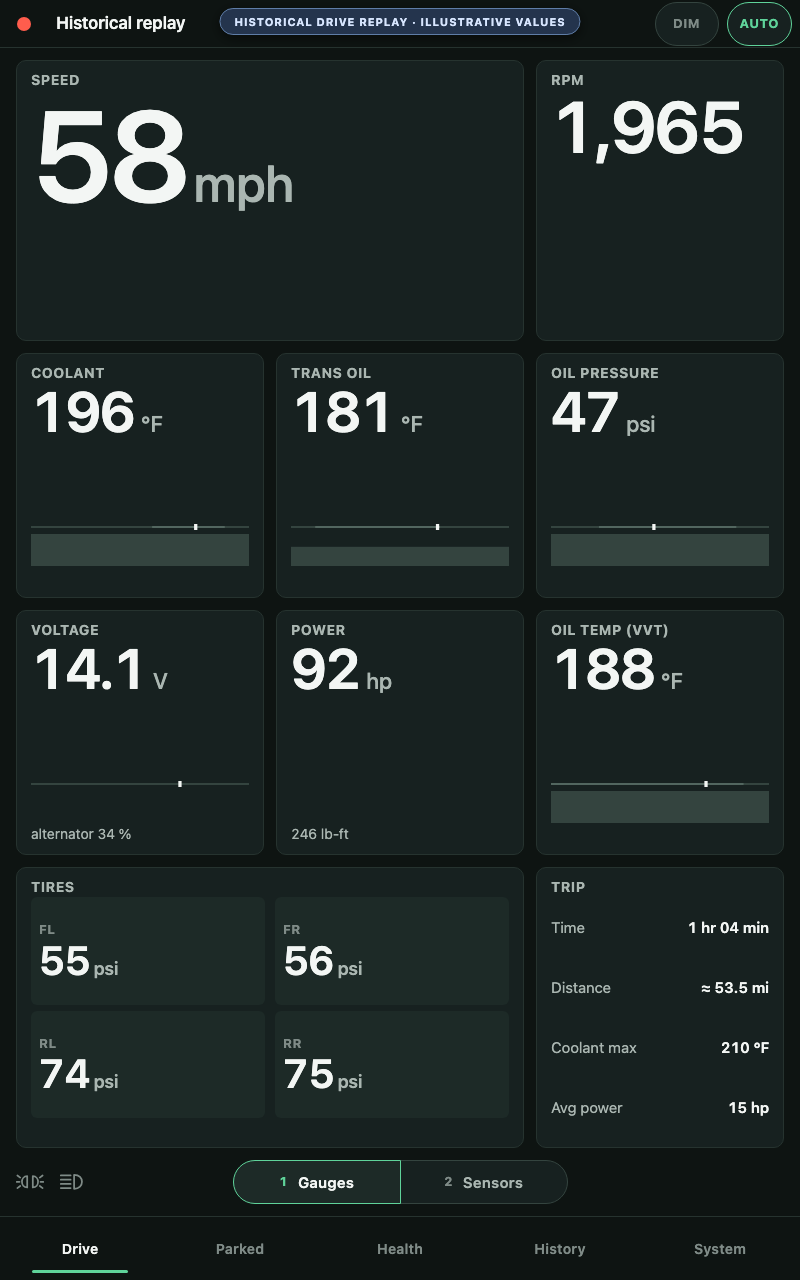
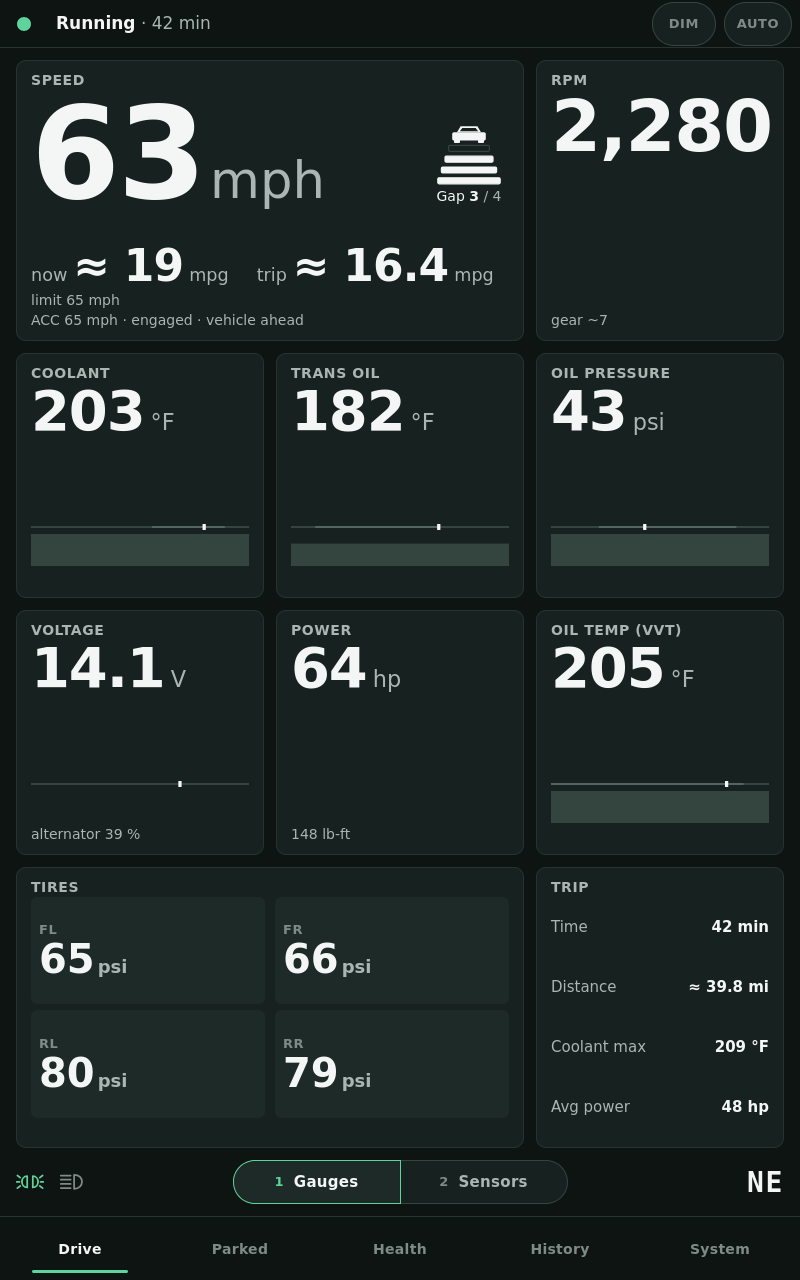
Refresh the README Drive capture with the demo scene
The page 1 image now shows the illustrative highway scene from
tools/demo_data.mjs (build 6f18e1889170), including the economy row, so
both README images come from the same consistent demo data.

diff --git a/README.md b/README.md
@@ -11,16 +11,16 @@ with each investigation living under `projects/<name>/`.
 ## Telemetry dashboard
 
 <p align="center">
-  <img src="projects/vehicle_data/dashboard/screenshots/01-drive-gauges.png" width="380" alt="Van telemetry dashboard replaying a historical drive with speed, RPM, temperatures, oil pressure, charging voltage, power, tire pressures, trip data, and light indicators">
+  <img src="projects/vehicle_data/dashboard/screenshots/01-drive-gauges.png" width="380" alt="Drive gauges view with illustrative demo data: 63 mph with instant and trip fuel economy under the speed, RPM, temperatures, oil pressure, charging voltage, power, tire pressures, trip data, and light indicators">
   <img src="projects/vehicle_data/dashboard/screenshots/17-drive-live-fuel-economy.png" width="380" alt="Drive sensors view with an estimated fuel rate of 3.3 gallons per hour and instant economy of 19 mpg, adaptive cruise, estimated gear, radar aim, and transmission speeds">
 </p>
 
 The tablet dashboard turns the passive three-bus telemetry stream into a driver-focused view of
 speed, engine and transmission temperatures, oil pressure, charging voltage, power, tire pressure,
 trip history, estimated fuel rate and live mpg, lighting state, diagnostics, maintenance, and radar
-alignment. Both screenshots use clearly labeled browser-only demo data: a replay with representative
-values from saved driving ranges (left) and an illustrative highway scene (right). Neither is live
-vehicle data, and the captures performed no CAN or service actions.
+alignment. Both screenshots use browser-only demo data, the same illustrative highway scene on the
+Gauges page (left) and the Sensors page (right). Neither is live vehicle data, and the captures
+performed no CAN or service actions.
 
 <details>
 <summary>More dashboard views</summary>
